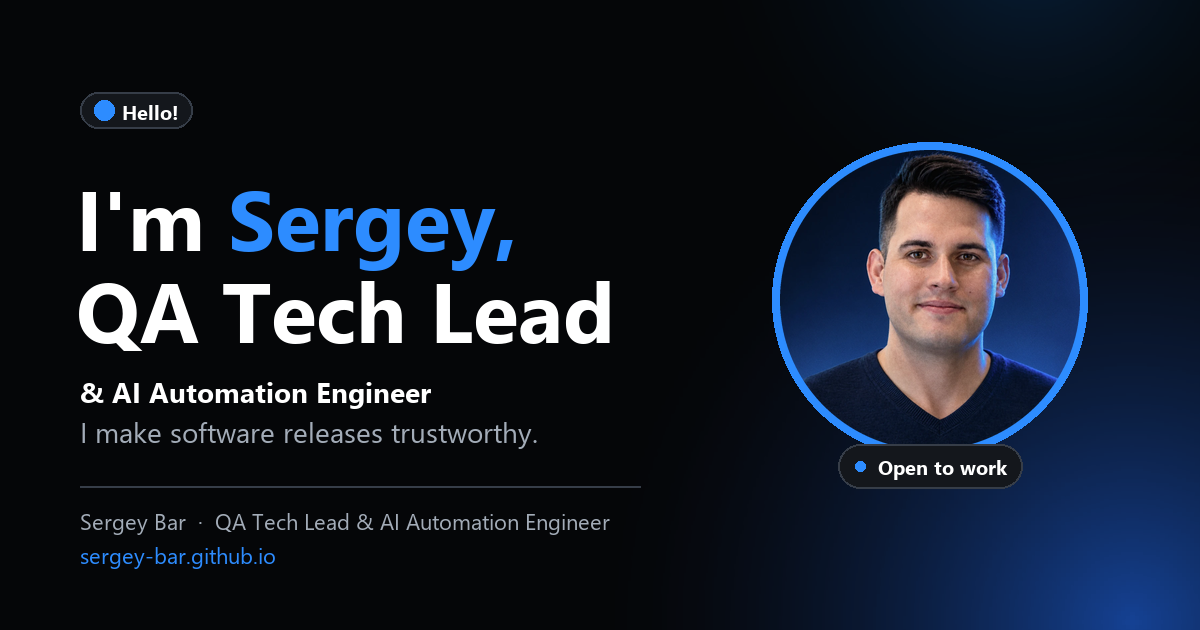
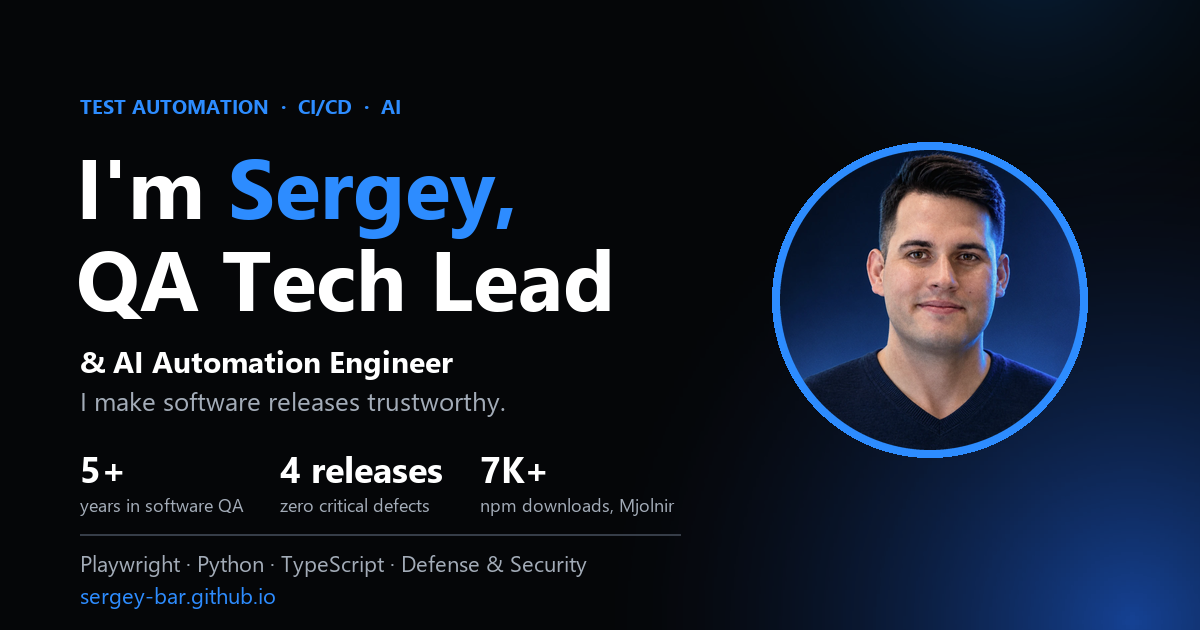
Upgrade the link-preview image
Drop the greeting chip, the Open to work chip and the repeated role line;
add a proof row (years, releases with zero critical defects, Mjolnir
downloads) read from the site's own content, and a keyword line.

diff --git a/src/content/hero.ts b/src/content/hero.ts
@@ -15,7 +15,7 @@ export const images = {
   /** 480px: the hero shows it at most 232px wide, 464 on a 2x screen. The 900px
    * source stays beside it for the social preview generator. */
   portrait: "/portrait-480.webp?v=20261031",
-  og: "/og.png?v=20261029d",
+  og: "/og.png?v=20261101",
 } as const;
 
 export const hero = {

diff --git a/scripts/og-image.py b/scripts/og-image.py
@@ -34,6 +34,23 @@ def read_const(path: Path, key: str) -> str:
     return match.group(1)
 
 
+def metric(label: str) -> str:
+    text = (ROOT / "src/content/metrics.ts").read_text(encoding="utf-8")
+    match = re.search(rf'value:\s*"([^"]+)",\s*label:\s*"{label}"', text)
+    if not match:
+        raise SystemExit(f"metric {label!r} not found in metrics.ts")
+    return match.group(1)
+
+
+def downloads() -> str:
+    text = (ROOT / "src/content/npm-stats.ts").read_text(encoding="utf-8")
+    match = re.search(r'"downloadsAllTime":\s*(\d+)', text)
+    if not match:
+        raise SystemExit("downloadsAllTime not found in npm-stats.ts")
+    # Rounded down, so the preview never claims more than the page shows.
+    return f"{int(match.group(1)) // 1000}K+"
+
+
 def font(size: int, bold: bool = False) -> ImageFont.FreeTypeFont:
     fonts = Path("C:/Windows/Fonts")
     for name in (["segoeuib.ttf", "arialbd.ttf"] if bold else ["segoeui.ttf", "arial.ttf"]):
@@ -57,6 +74,11 @@ def main() -> None:
     name = read_const(ROOT / "src/content/site.ts", "name")
     role = read_const(ROOT / "src/content/site.ts", "role")
     headline = read_const(ROOT / "src/content/hero.ts", "headline")
+    proof = [
+        (f"{metric('years in software QA')}+", "years in software QA"),
+        (f"{metric('major releases')} releases", "zero critical defects"),
+        (downloads(), "npm downloads, Mjolnir"),
+    ]
     domain = read_const(ROOT / "src/content/site.ts", "domain").replace("https://", "")
 
     img = Image.new("RGBA", (W, H), PAPER + (255,))
@@ -81,26 +103,33 @@ def main() -> None:
 
     draw = ImageDraw.Draw(img)
 
-    # Copy.
+    # Copy. No greeting chip and no repeated role line: at link-preview size
+    # only the title and a few numbers register, so the space goes to proof.
     x = 80
-    draw.rounded_rectangle((x, 92, x + 112, 128), radius=18, fill=(20, 23, 28), outline=LINE, width=2)
-    draw.ellipse((x + 14, 100, x + 34, 120), fill=SKY)
-    draw.text((x + 42, 98), "Hello!", font=font(20, bold=True), fill=INK)
+    eyebrow = font(20, bold=True)
+    draw.text((x, 92), "TEST AUTOMATION  ·  CI/CD  ·  AI", font=eyebrow, fill=SKY)
 
     title_font = font(84, bold=True)
     first = name.split(" ")[0]
-    draw.text((x - 4, 160), "I'm ", font=title_font, fill=INK)
-    draw.text((x - 4 + draw.textlength("I'm ", font=title_font), 160), f"{first},", font=title_font, fill=SKY)
-    draw.text((x - 4, 252), "QA Tech Lead", font=title_font, fill=INK)
+    draw.text((x - 4, 128), "I'm ", font=title_font, fill=INK)
+    draw.text((x - 4 + draw.textlength("I'm ", font=title_font), 128), f"{first},", font=title_font, fill=SKY)
+    draw.text((x - 4, 220), "QA Tech Lead", font=title_font, fill=INK)
 
-    sub_font = font(28)
-    draw.text((x, 372), "& AI Automation Engineer", font=font(28, bold=True), fill=INK)
-    draw.text((x, 412), headline, font=sub_font, fill=MUTED)
+    draw.text((x, 340), "& AI Automation Engineer", font=font(30, bold=True), fill=INK)
+    draw.text((x, 382), headline, font=font(26), fill=MUTED)
 
-    draw.line((x, 486, x + 560, 486), fill=LINE, width=2)
+    # Proof row: three figures read from the site's own content.
+    big, label = font(36, bold=True), font(18)
+    col = x
+    for value, caption in proof:
+        draw.text((col, 444), value, font=big, fill=INK)
+        draw.text((col, 492), caption, font=label, fill=MUTED)
+        col += 200
+
+    draw.line((x, 534, x + 600, 534), fill=LINE, width=2)
     small = font(22)
-    draw.text((x, 506), f"{name}  ·  {role}", font=small, fill=MUTED)
-    draw.text((x, 540), domain, font=small, fill=SKY)
+    draw.text((x, 548), "Playwright · Python · TypeScript · Defense & Security", font=small, fill=MUTED)
+    draw.text((x, 580), domain, font=small, fill=SKY)
 
     out = ROOT / "public/og.png"
     img.convert("RGB").save(out, optimize=True)
